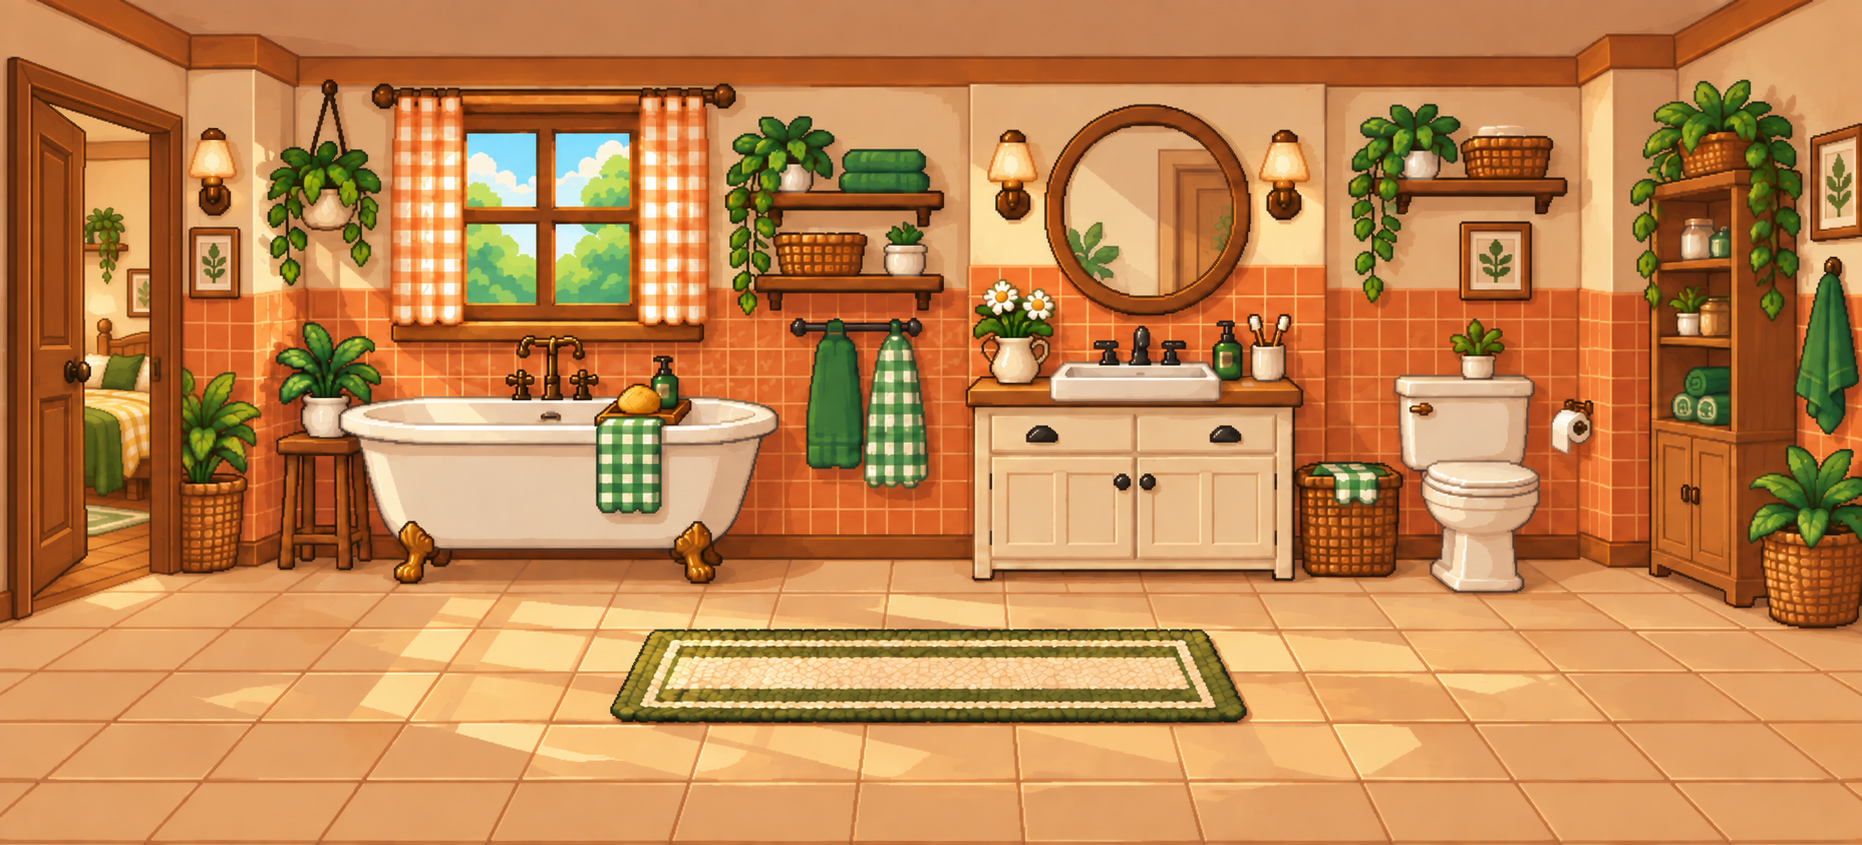
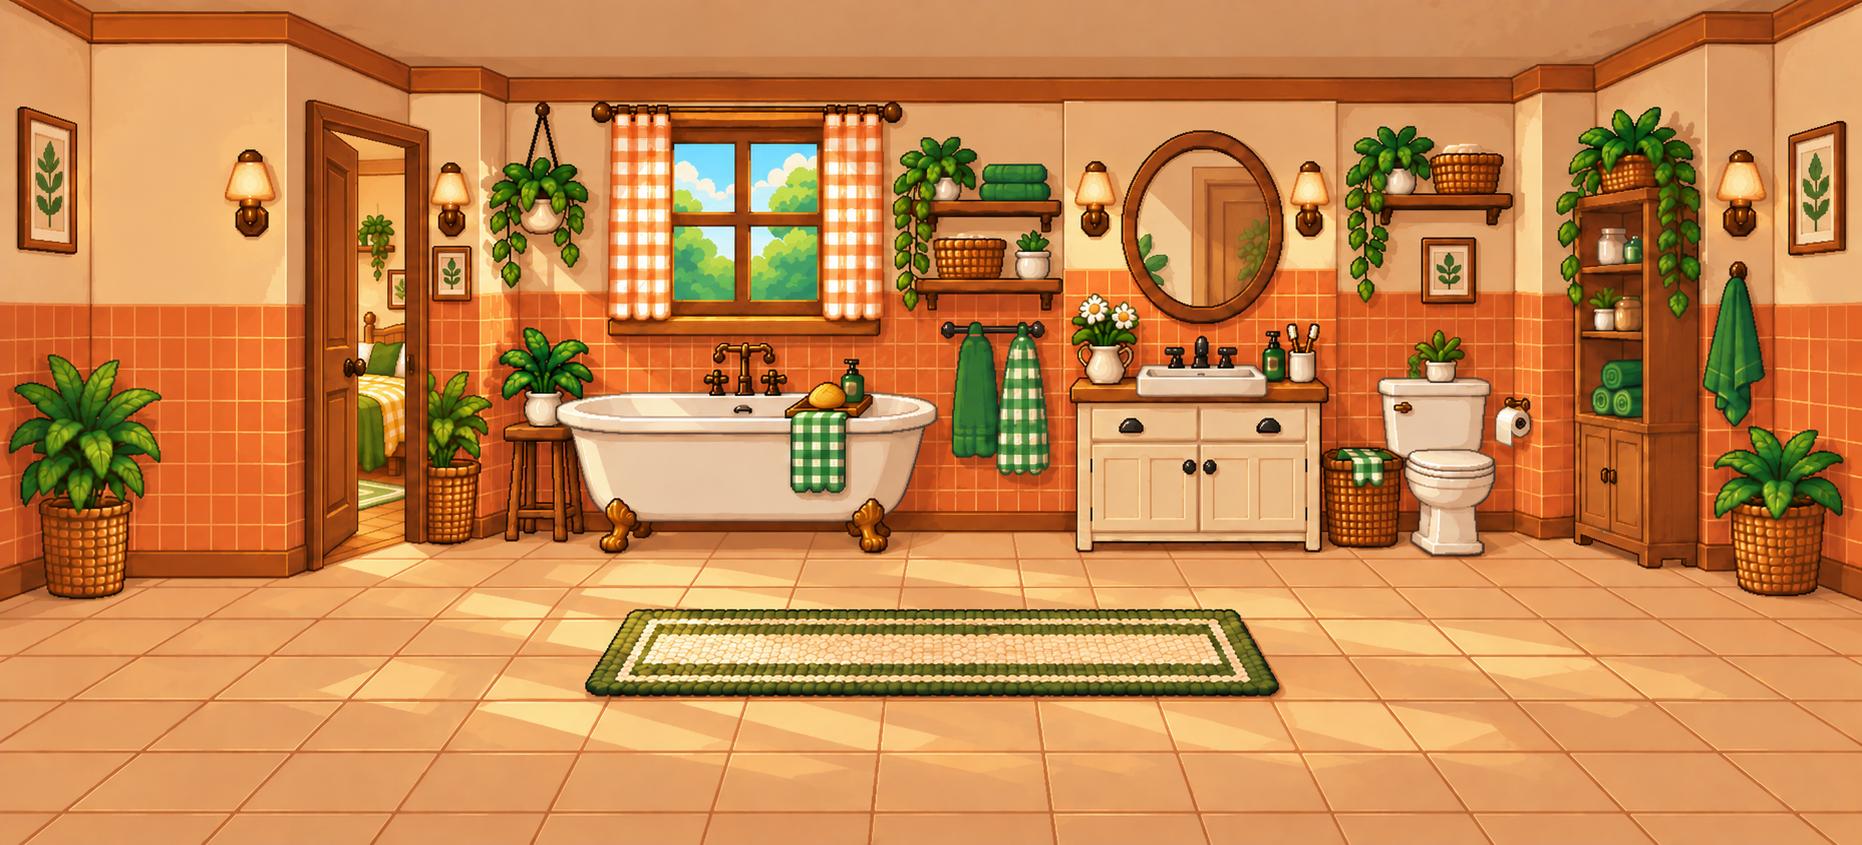
fix background picture

diff --git a/src/pet/internal/PetRoom.tsx b/src/pet/internal/PetRoom.tsx
@@ -44,8 +44,8 @@ const ROOM_EXITS: Partial<Record<RoomType, RoomExit[]>> = {
     { direction: 'left', destination: RoomType.BEDROOM, label: 'Go to bedroom' },
   ],
   [RoomType.KITCHEN]: [
-    { direction: 'left', destination: RoomType.PLAYROOM, label: 'Go outside' },
-    { direction: 'right', destination: RoomType.GAMES, label: 'Go to games room' },
+    { direction: 'left', destination: RoomType.GAMES, label: 'Go to games room' },
+    { direction: 'right', destination: RoomType.PLAYROOM, label: 'Go outside' },
   ],
 };
 
@@ -80,7 +80,6 @@ const INDOOR_PET_KEYBOARD_SPEED = 360;
 const INDOOR_PET_MOUSE_SPEED = 520;
 const INDOOR_PET_STOP_DISTANCE = 2;
 const ROOM_TRANSITION_LOADING_MS = 1800;
-const ROOM_BACKGROUND_ASPECT_RATIO = 1862 / 845;
 
 const INDOOR_FLOOR_LANES: Partial<Record<RoomType, { min: number; max: number }>> = {
   [RoomType.KITCHEN]: { min: 0.14, max: 0.86 },
@@ -96,11 +95,10 @@ const BEDROOM_BED_BOTTOM_OFFSET = 96;
 
 const SLEEP_WAKE_DURATION_MS = 760;
 const clamp = (value: number, min: number, max: number) => Math.max(min, Math.min(max, value));
-const getRoomSceneHorizontalBounds = (width: number, height: number) => {
-  const sceneWidth = Math.min(width, height * ROOM_BACKGROUND_ASPECT_RATIO);
-  const sceneLeft = (width - sceneWidth) / 2;
-  return { sceneLeft, sceneWidth };
-};
+const getRoomSceneHorizontalBounds = (width: number, _height: number) => ({
+  sceneLeft: 0,
+  sceneWidth: width,
+});
 
 interface PetRoomProps {
   onNavigateToGame: (gameId: string) => void;
@@ -986,7 +984,7 @@ export const PetRoom: React.FC<PetRoomProps> = ({ onNavigateToGame, extraGames }
           inset: 0,
           width: '100%',
           height: '100%',
-          objectFit: 'contain',
+          objectFit: 'cover',
           objectPosition: 'center center',
           imageRendering: 'pixelated',
           pointerEvents: 'none',
